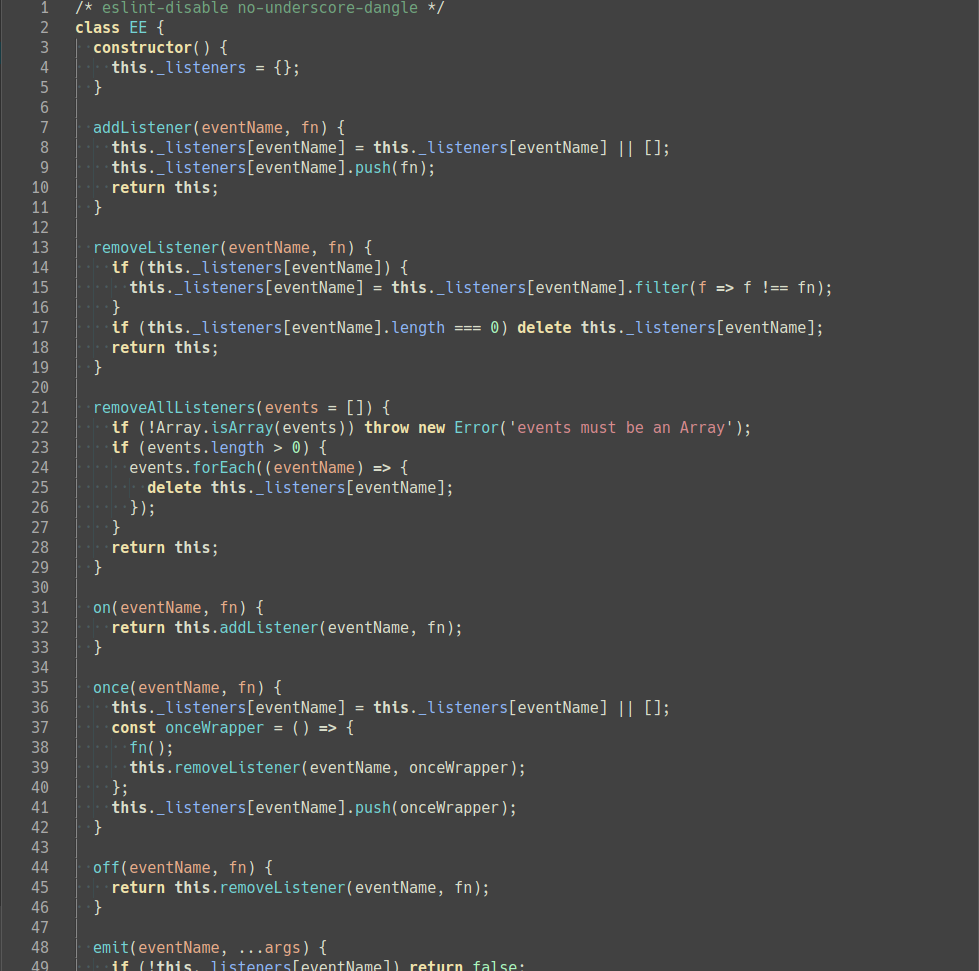
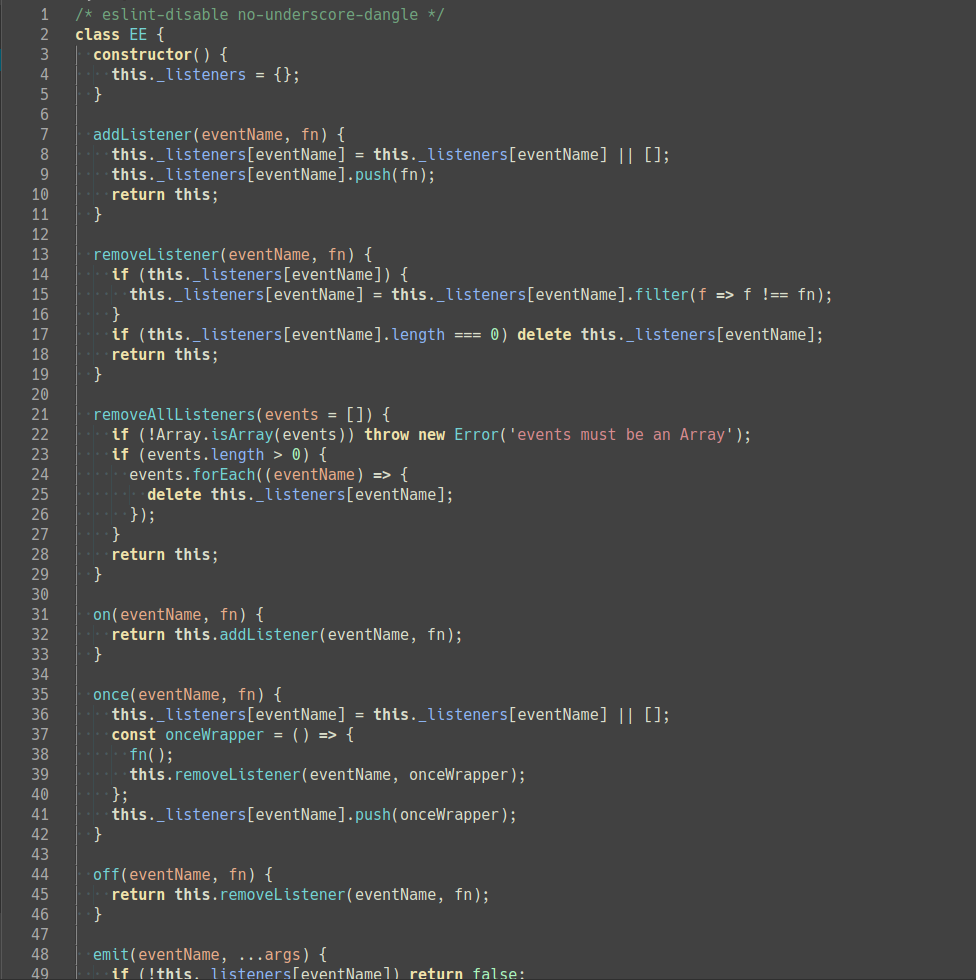
Update JavaScript screenshot

diff --git a/CHANGELOG.md b/CHANGELOG.md
@@ -1,5 +1,9 @@
 # Changelog
 
+## v0.2.3
+
+- Update JavaScript screenshot
+
 ## v0.2.2
 
 - README: Delete link to screenshot
